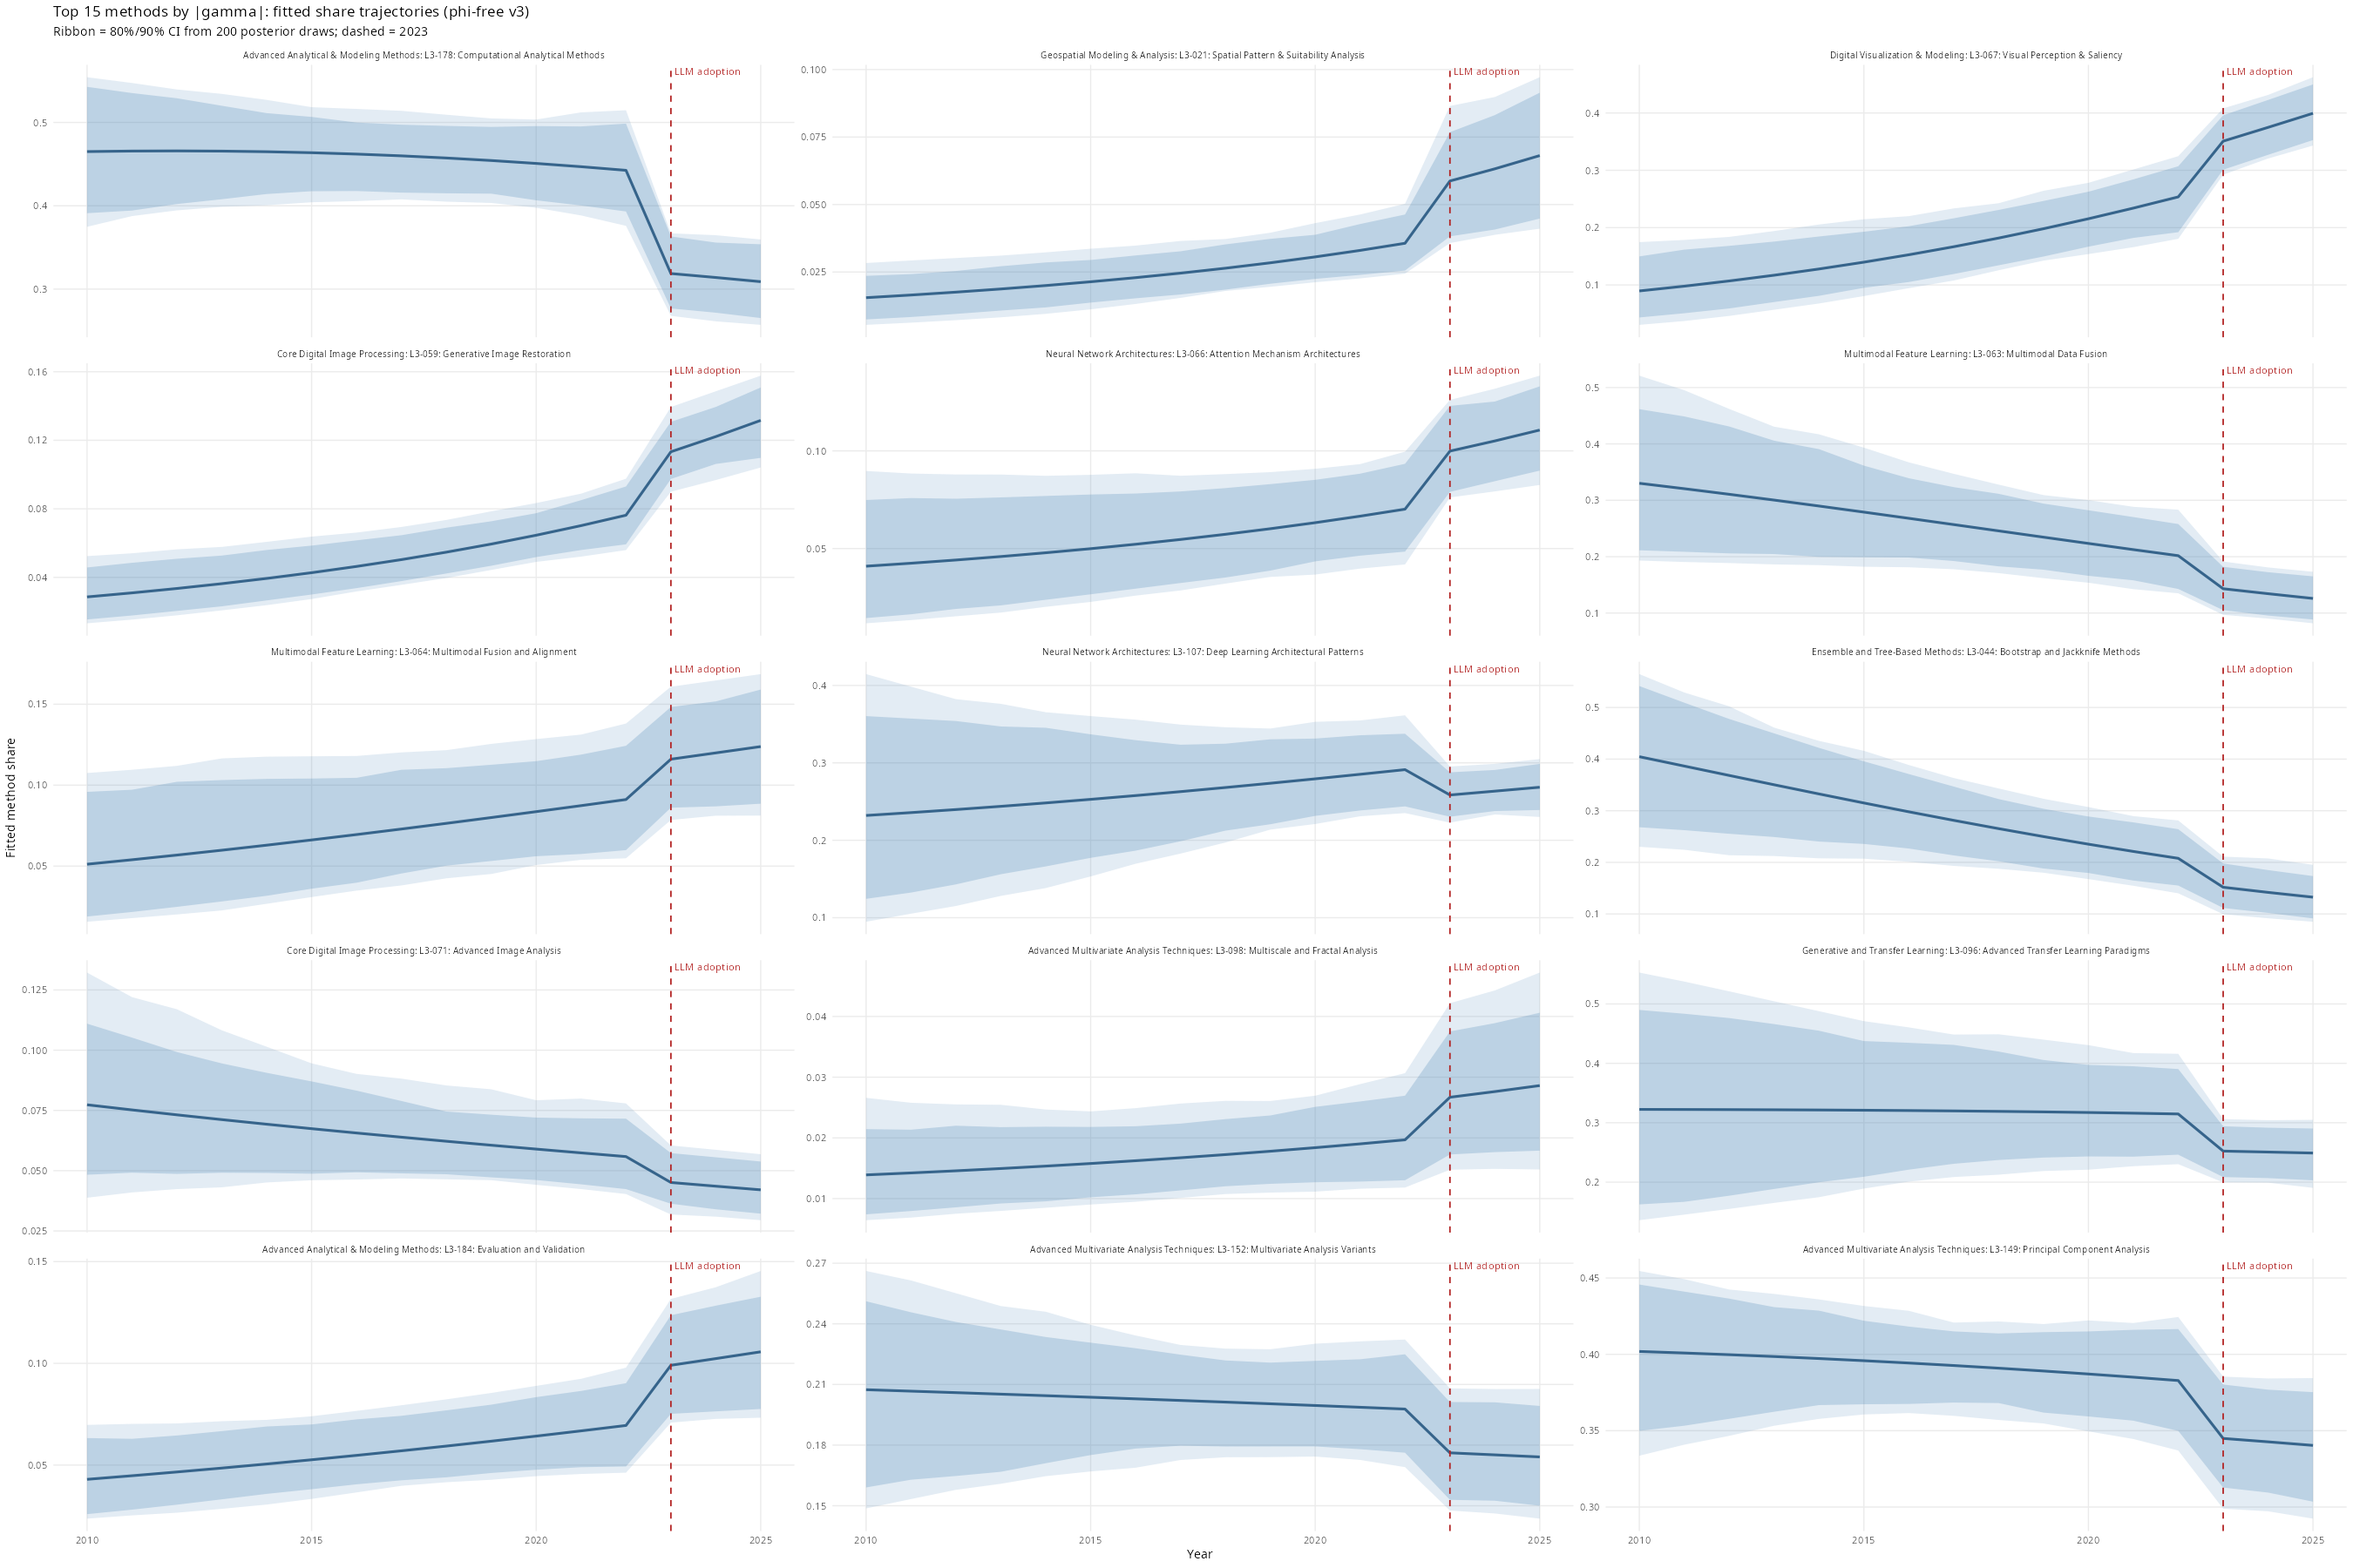
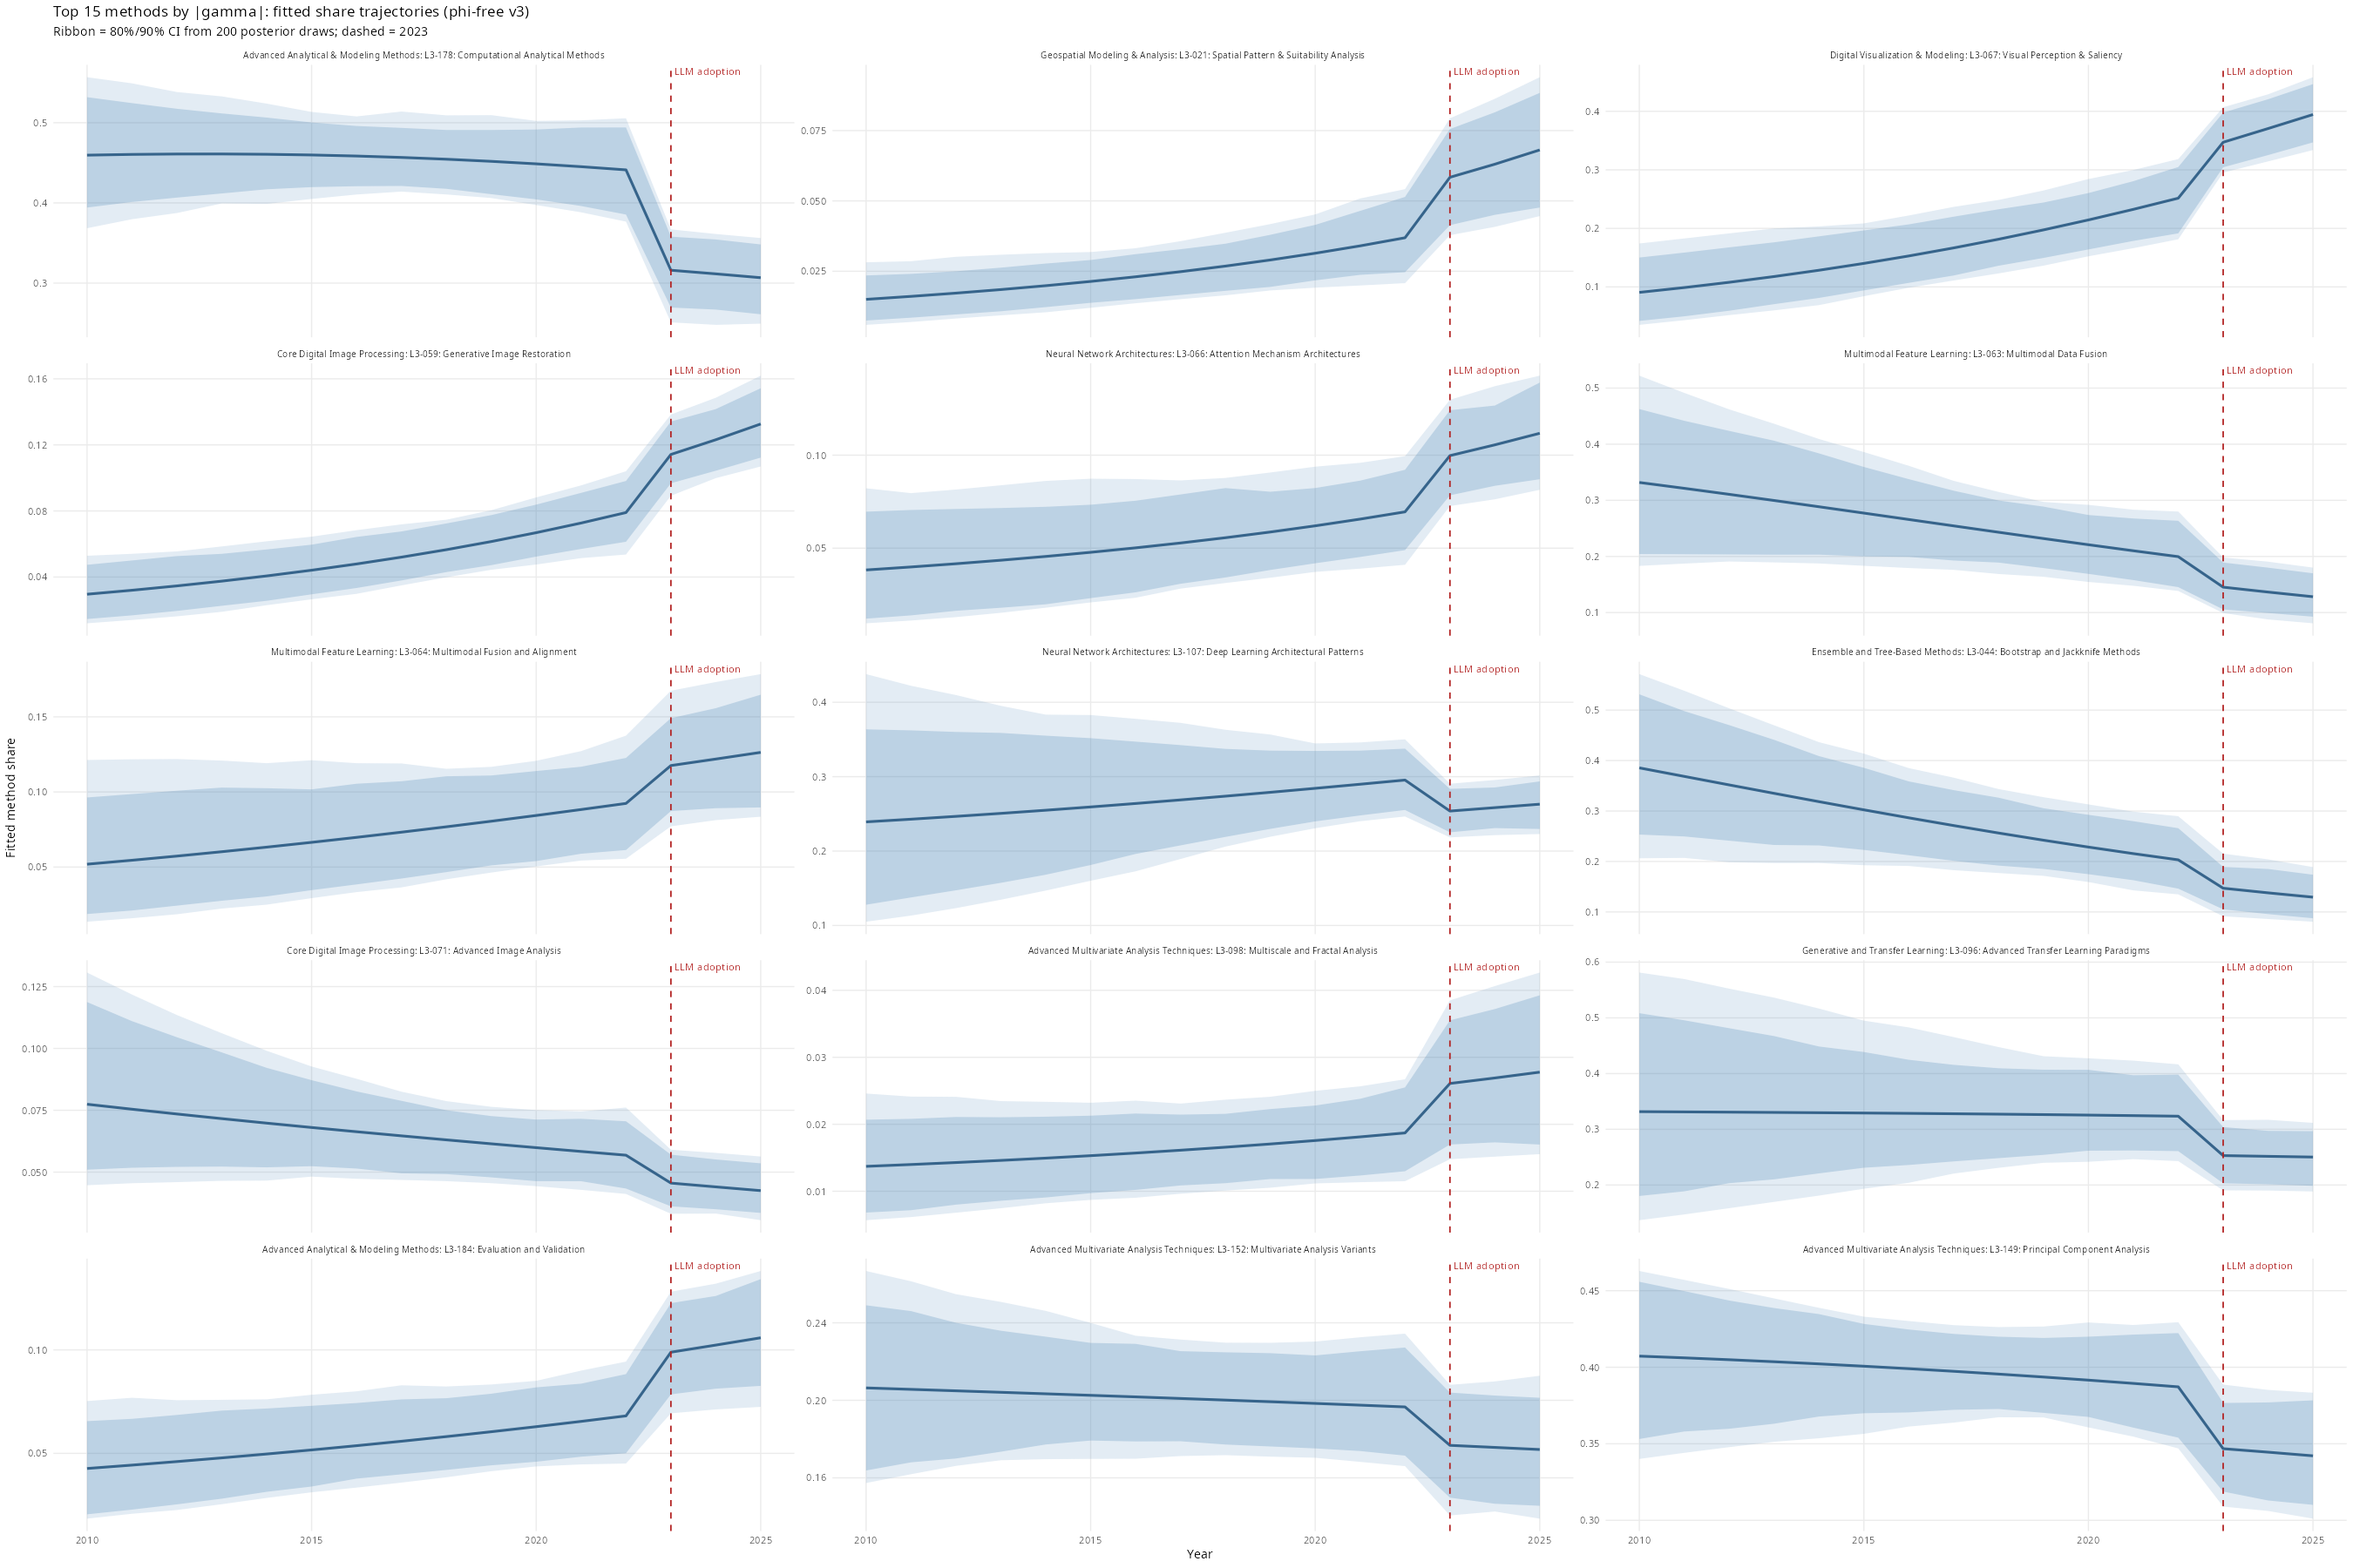
docs: fix repository structure in README; update phi_free plots

diff --git a/README.md b/README.md
@@ -89,11 +89,14 @@ In the 2–3 years since LLMs entered academic use, computational archaeology ha
 ├── stan/
 │   ├── diversity_model.stan
 │   └── diversity_model_phi_free.stan
-├── data/output/
-│   ├── l3/
-│   ├── l2/
-│   ├── phi_free/
-│   └── workflow/
+├── data/
+│   ├── input/
+│   └── output/
+│       ├── l3/
+│       ├── l2/
+│       ├── phi_free/
+│       └── workflow/
+├── logs/
 ├── docs/
 │   ├── l2_l3_results.md
 │   ├── l1_l2_results.md
